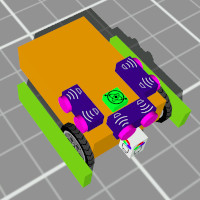
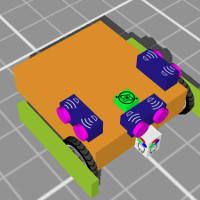
* Renamed crane truck to tow * Updated thumbnails for robots

diff --git a/public/js/robotTemplates.js b/public/js/robotTemplates.js
@@ -249,8 +249,8 @@ var robotTemplates = [
     ]
   },
   {
-    name: 'crane',
-    shortDescription: 'Crane Truck',
+    name: 'tow',
+    shortDescription: 'Tow Truck',
     longDescription:
       '<p>This robot is equipped with an arm mounted magnet.</p>' +
       '<p>It can pick up or tow magnetic objects. Just be careful not to knock the object away when turning around!</p>',
@@ -274,7 +274,7 @@ var robotTemplates = [
         '<li>Ultrasonic Distance: Port 3</li>' +
         '<li>Gyro: Port 4</li>' +
       '</ul>',
-    thumbnail: 'images/robots/crane.jpg',
+    thumbnail: 'images/robots/tow.jpg',
 
     bodyHeight: 4,
     bodyWidth: 14,
